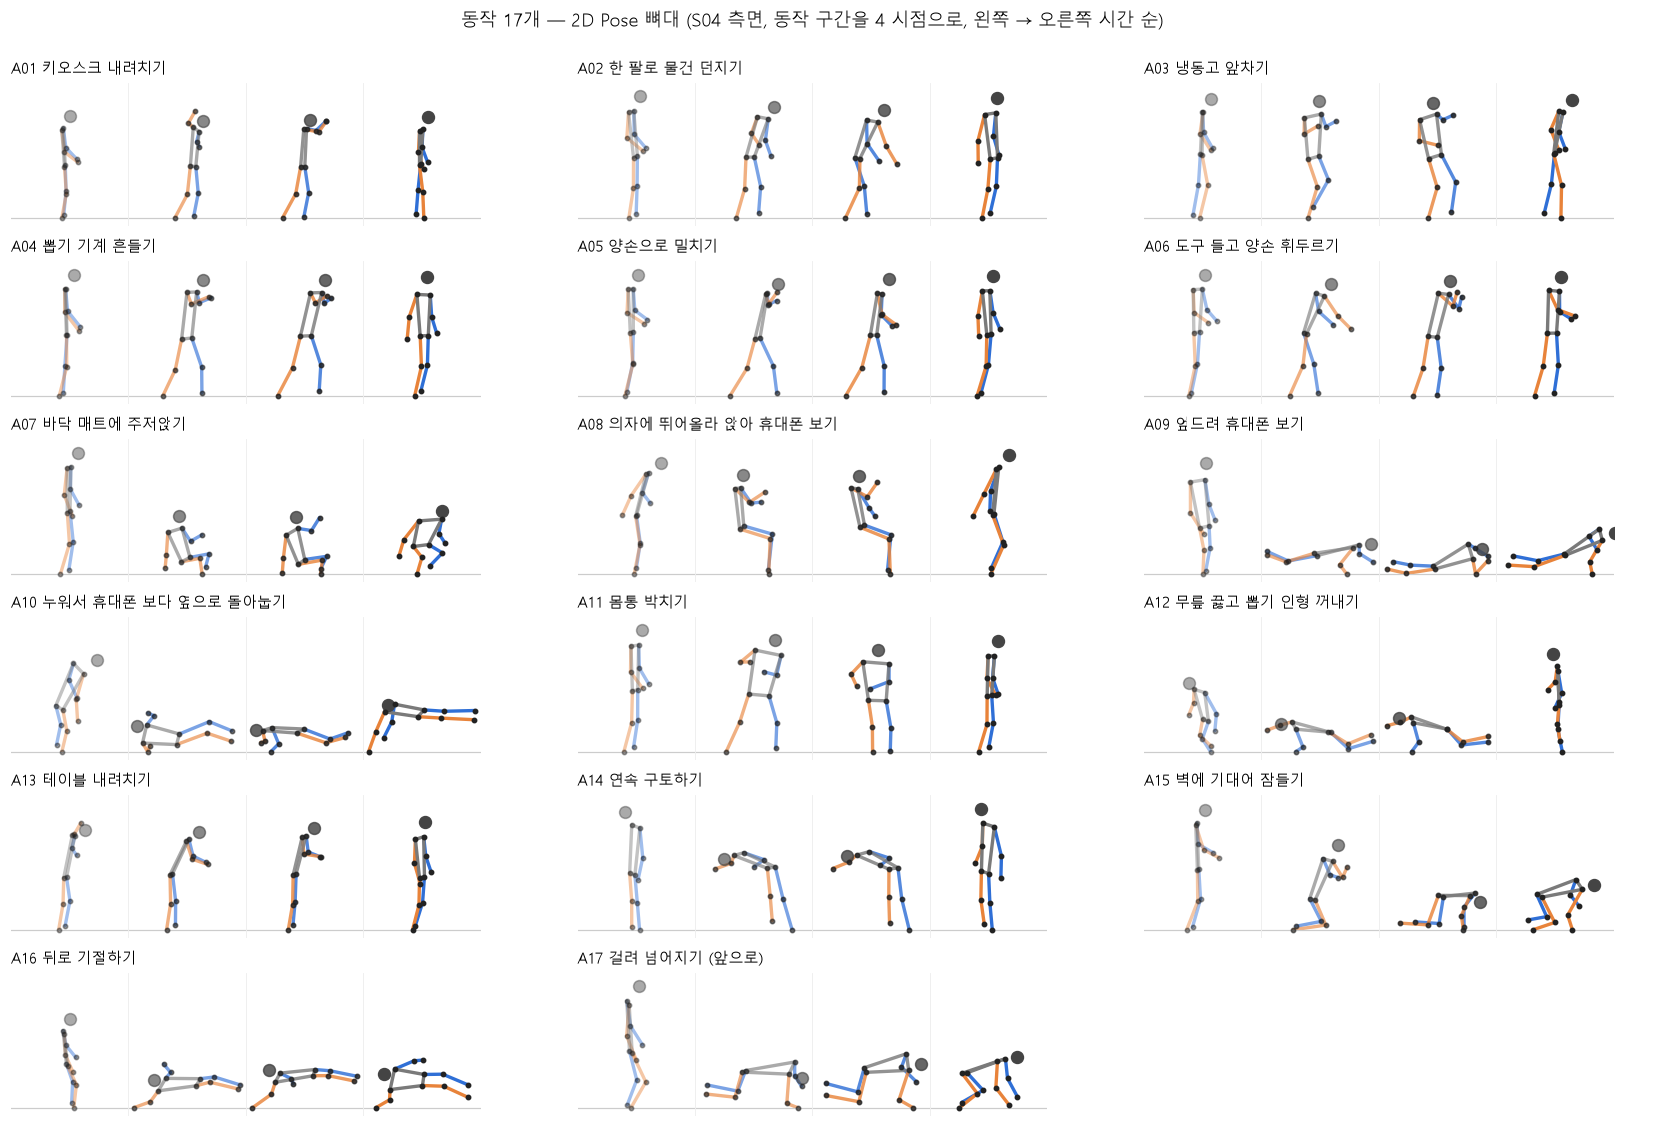
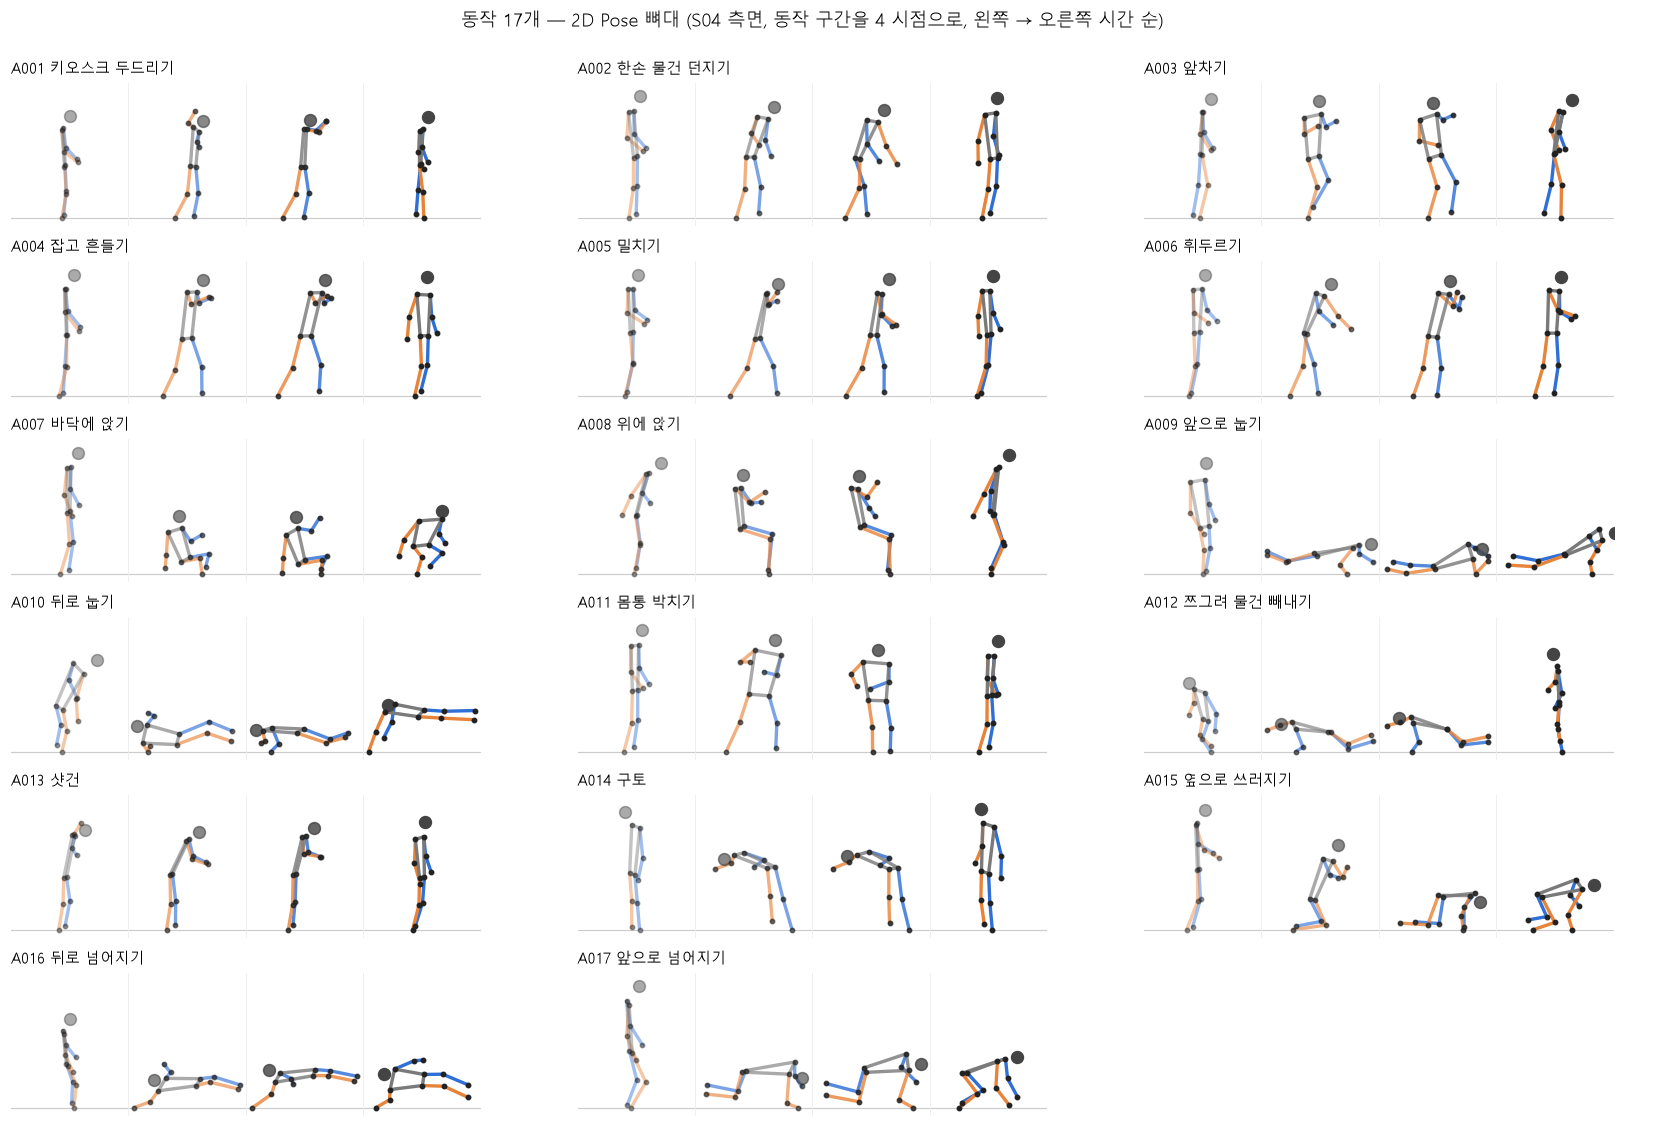
동작 17개 그림을 통일 번호로, 현장 흉내 정확도 그림 추가

diff --git a/scripts/27_field_robust.py b/scripts/27_field_robust.py
@@ -18,8 +18,9 @@
 고르는 규칙 (미리 정함): orig 가 지금보다 1%p 넘게 떨어지면 안 됨. 그 안에서 변형 넷(cut·late·double·pad) 평균이 가장 높은 것.
   이 차이가 난수 3개 편차보다 커야 '효과 있음'. Test S05 와 현장 영상은 고른 뒤 확인만.
 
-실행: .venv/bin/python scripts/27_field_robust.py [--only 이름,…] [--final 이름]
-결과: reports/tables/field_robust_cv.csv, field_robust_per_action.csv, (--final) field_robust_final.csv
+실행: .venv/bin/python scripts/27_field_robust.py [--only 이름,…] [--final 이름] [--plot]
+결과: reports/tables/field_robust_cv.csv, field_robust_per_action.csv, (--final) field_robust_final.csv,
+      (--plot) docs/images/field_robust.png — 지금 모델 vs 고른 모델, 변형별 정확도
 """
 from __future__ import annotations
 
@@ -218,7 +219,10 @@ def main() -> None:
     ap = argparse.ArgumentParser()
     ap.add_argument("--only", default="")
     ap.add_argument("--final", default="", help="고른 설정 (쉼표) → Test S05 + 현장 영상 확인")
+    ap.add_argument("--plot", action="store_true", help="field_robust_cv.csv → docs/images/field_robust.png")
     args = ap.parse_args()
+    if args.plot:
+        return plot()
     DEV_SUBJ = SPLIT["train"] + SPLIT["validation"]
     names = [n for n in CONFIGS if not args.only or any(k in n for k in args.only.split(","))]
     if args.final:
@@ -255,6 +259,30 @@ def main() -> None:
         pd.DataFrame(summary).to_csv(out, index=False, encoding="utf-8-sig")
     pa = pd.concat(allrows).groupby(["config", "variant", "action_id"]).correct.mean().unstack(0).mul(100).round(1)
     pa.to_csv(TABLES / "field_robust_per_action.csv", encoding="utf-8-sig")
+
+
+def plot(chosen="Pose 11m · whole + 증강"):
+    import matplotlib.pyplot as plt
+    fig_mod = load_script("08_draw_skeleton_figure.py")
+    fig_mod.setup_font()
+    df = pd.read_csv(TABLES / "field_robust_cv.csv").set_index("config")
+    labels = {"orig": "원래 영상", "cut": "바로 시작·끊기", "late": "중간부터", "double": "두 번 반복", "pad": "오래 서 있기"}
+    x = np.arange(len(labels))
+    fig, ax = plt.subplots(figsize=(7.5, 3.2))
+    for i, (name, tag, color) in enumerate([("지금 (whole)", "전 (11n)", "#9aa4b2"), (chosen, "후 (11m + 현장식 증강)", "#2f6fdb")]):
+        v = df.loc[name, list(labels)].to_numpy(float)
+        bars = ax.bar(x + (i - 0.5) * 0.38, v, 0.38, label=tag, color=color)
+        ax.bar_label(bars, fmt="%.0f", fontsize=8, padding=2)
+    ax.set_xticks(x, list(labels.values()))
+    ax.set_ylim(50, 106)
+    ax.set_ylabel("정확도 (%)")
+    ax.set_title("현장처럼 바꾼 영상에서의 정확도 (S01~S04 사람 단위 4-fold)", fontsize=10)
+    ax.legend(frameon=False, fontsize=8, loc="upper right", ncol=2)
+    ax.spines[["top", "right"]].set_visible(False)
+    out = ROOT / "docs" / "images" / "field_robust.png"
+    fig.tight_layout()
+    fig.savefig(out, dpi=120, facecolor="white")
+    print(out.relative_to(ROOT))
 
 
 def final(names, classes):

diff --git a/scripts/08_draw_skeleton_figure.py b/scripts/08_draw_skeleton_figure.py
@@ -110,6 +110,10 @@ def main() -> None:
     setup_font()
 
     classes = list(csv.DictReader(CLASSES.open(encoding="utf-8-sig")))
+    # 그림 제목은 팀 통일 번호·이름 (서비스 화면과 같게, 결정 15번). 영상 파일 이름은 이 저장소 번호 그대로
+    unified = {r["team_repo_id"]: f"{r['unified_id']} {r['unified_name_ko']}"
+               for r in csv.DictReader((ROOT / "configs" / "unified_label_map.csv").open(encoding="utf-8-sig"))
+               if r["kind"] == "action"}
     ncol = 3
     nrow = int(np.ceil(len(classes) / ncol))
     fig, axes = plt.subplots(nrow, ncol, figsize=(ncol * 5.2, nrow * 1.7))
@@ -120,7 +124,7 @@ def main() -> None:
         df = pd.read_csv(SEQ / f"{clip}_sequence.csv")
         s, e = segment_of(clip)
         times = list(np.linspace(s, e, N_POSES))
-        draw_tile(ax, poses_at(df, times), f"{c['action_id']} {c['name_ko']}")
+        draw_tile(ax, poses_at(df, times), unified[c["action_id"]])
     view = "측면" if args.view == "S" else "정면"
     fig.suptitle(f"동작 17개 — 2D Pose 뼈대 ({args.subject} {view}, 동작 구간을 4 시점으로, 왼쪽 → 오른쪽 시간 순)",
                  fontsize=12, y=1.0)
